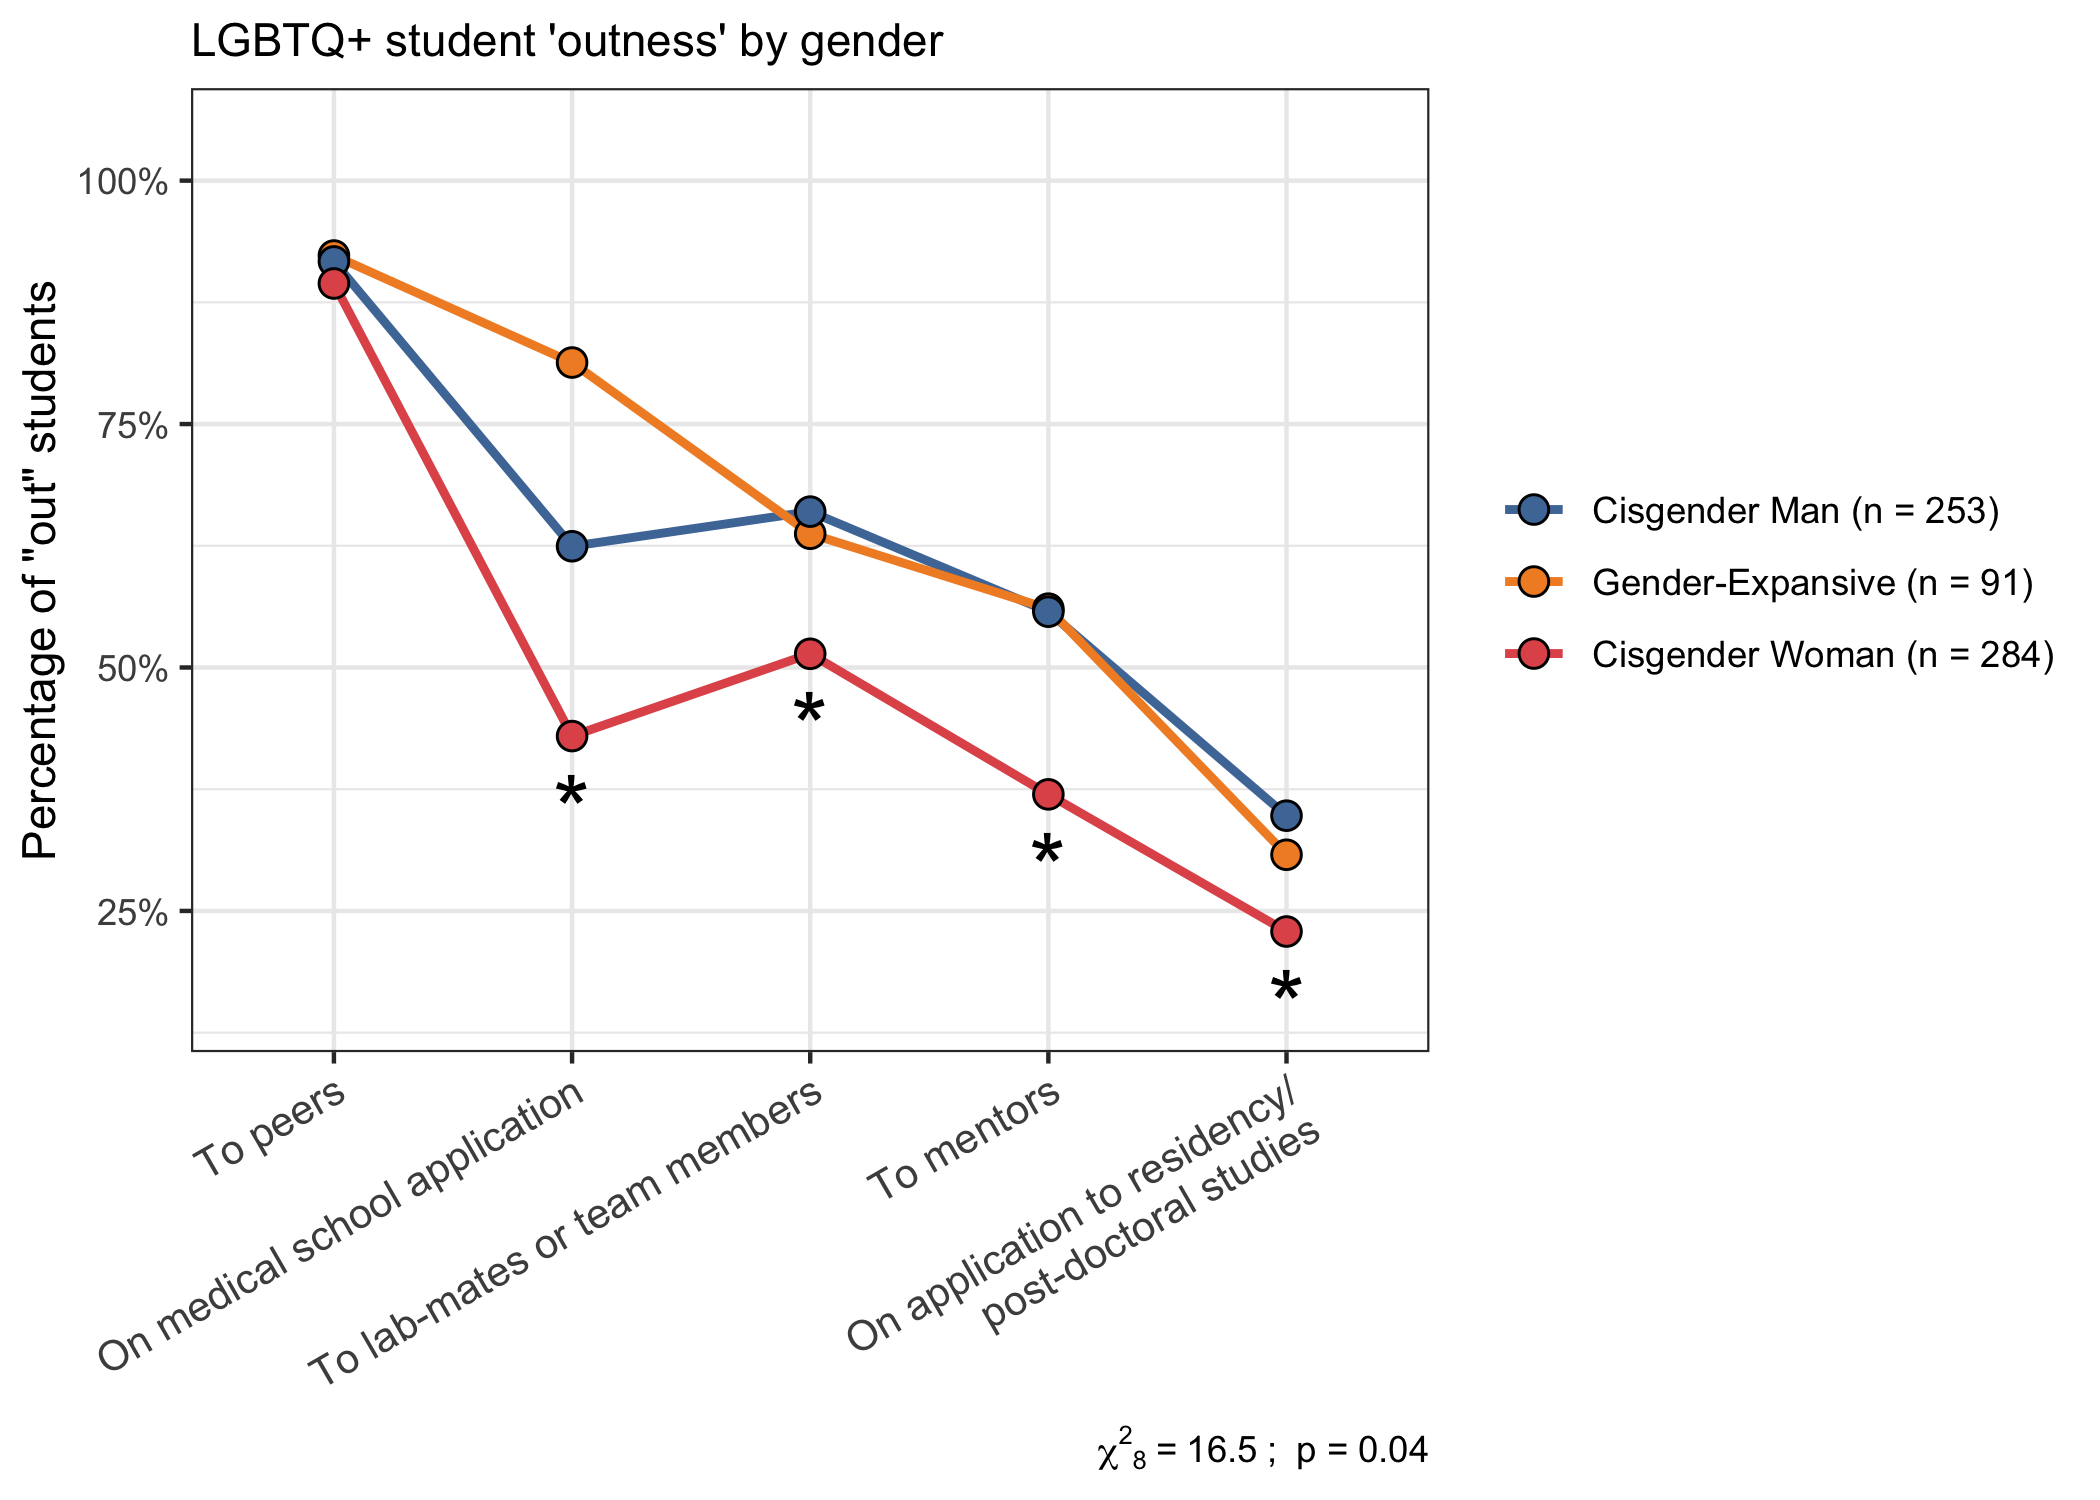
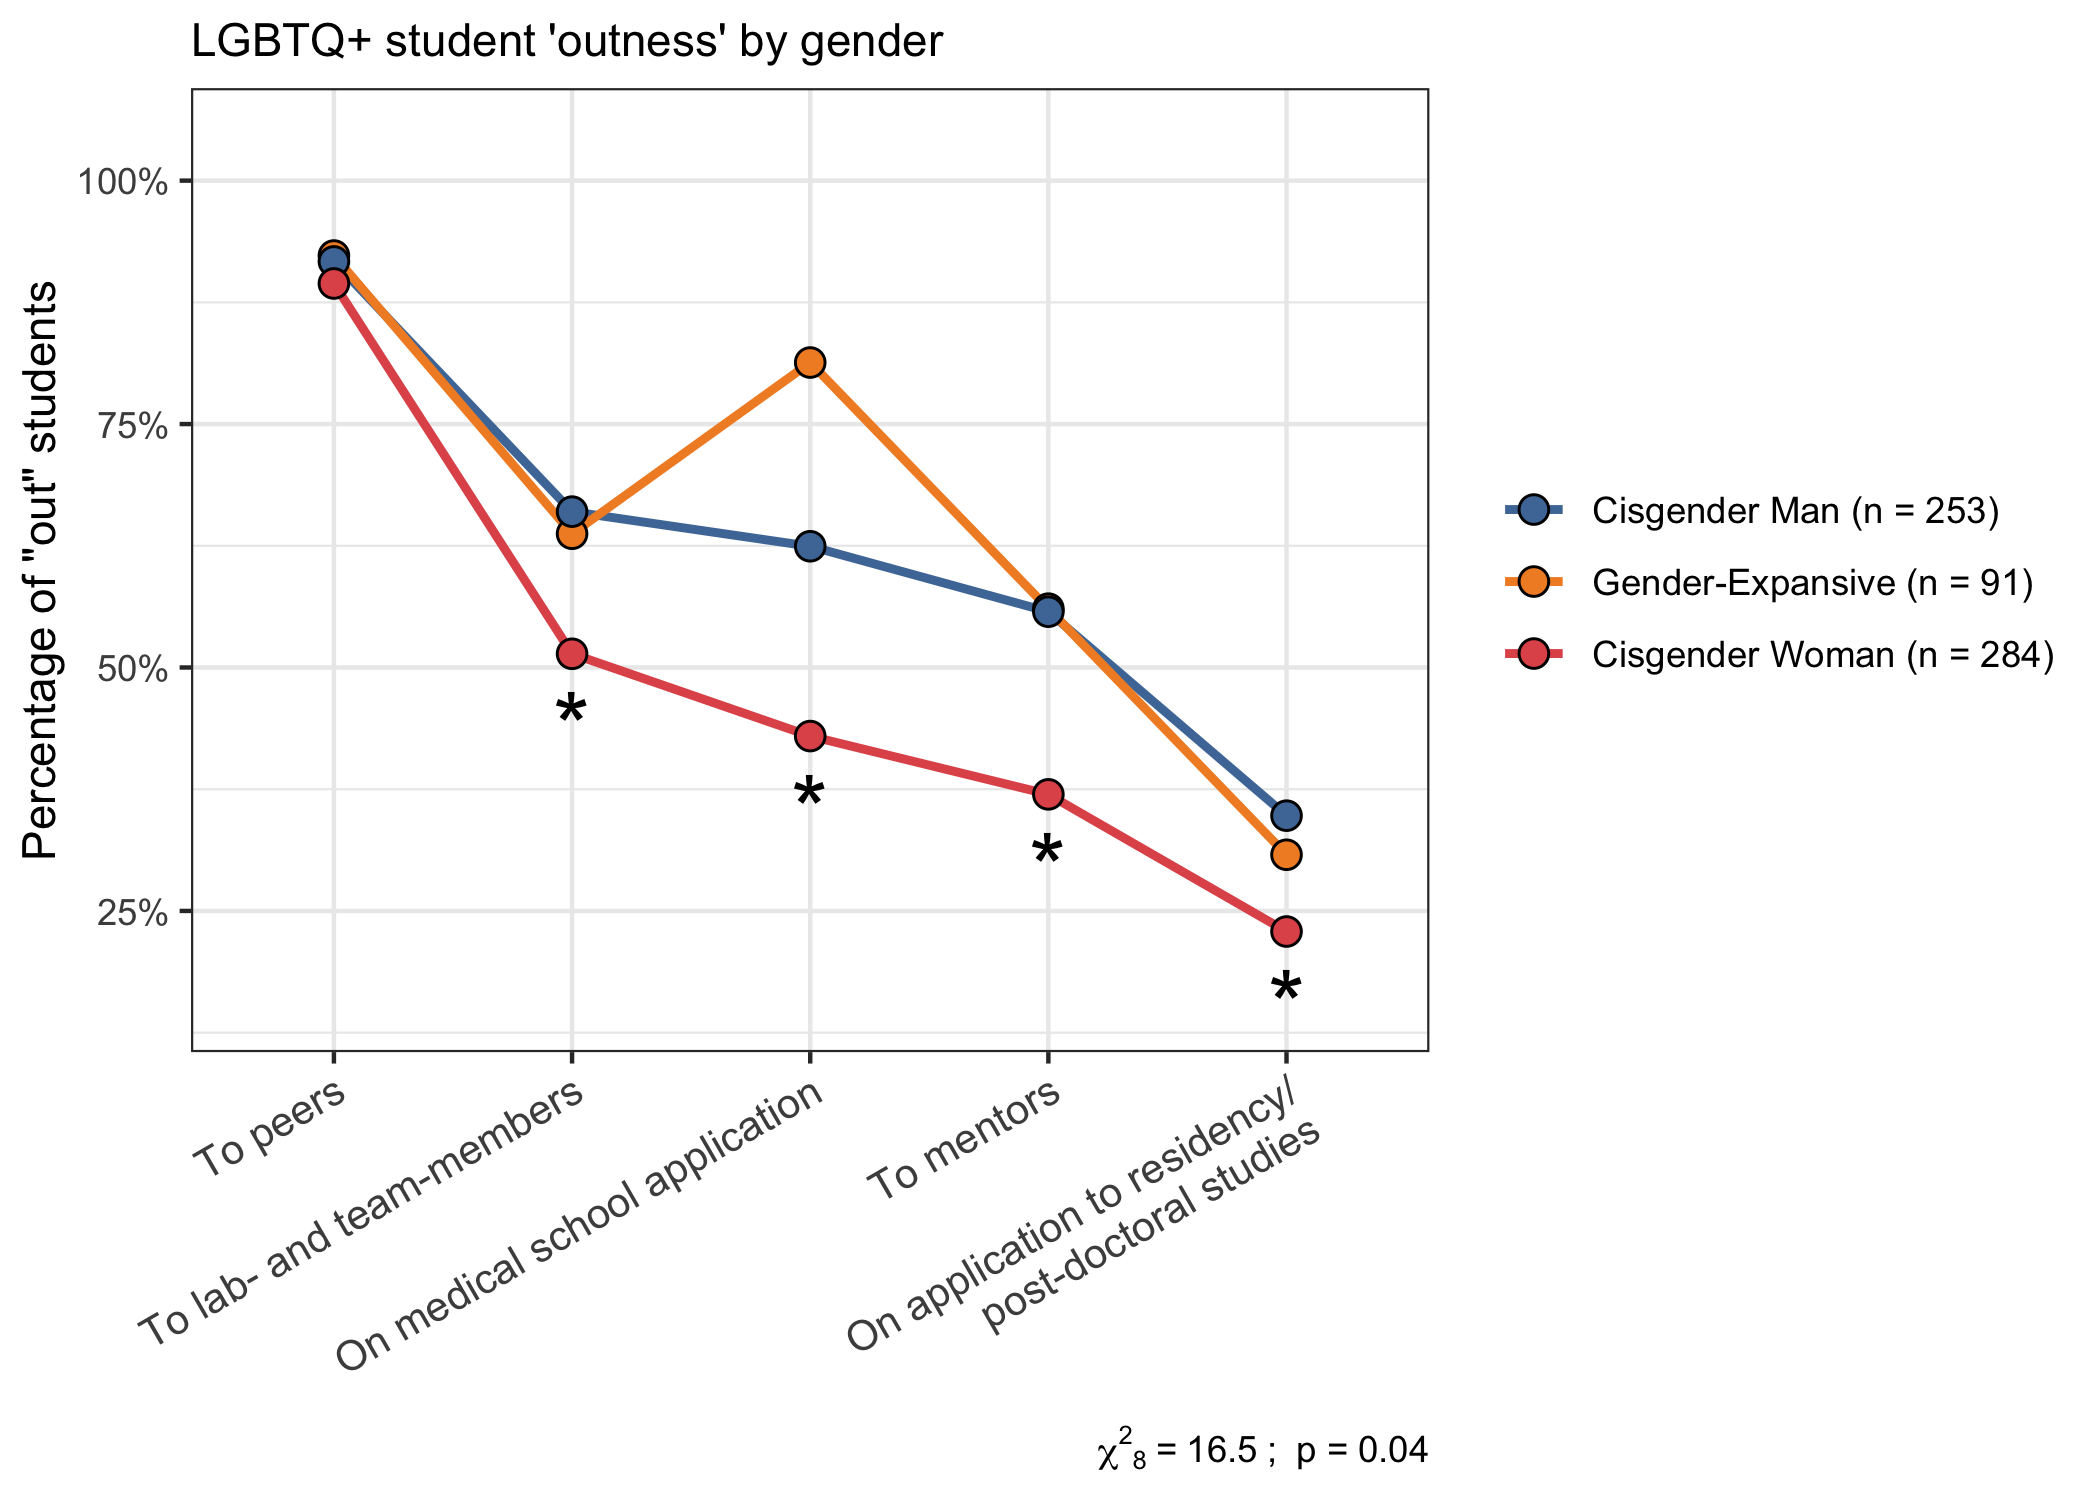
bug fixes

diff --git a/reports/outness_paper/outness_report.md b/reports/outness_paper/outness_report.md
@@ -104,7 +104,7 @@ recode_values <-
 context_recode <- 
   c(
     "classmates_peers" = "To peers", 
-    "labmates_coworkers_team" = "To lab-mates or team members", 
+    "labmates_coworkers_team" = "To lab- and team-members", 
     "mentors" = "To mentors", 
     "medical_school_app" = "On medical school application", 
     "residency_app" = "On application to residency/post-doctoral studies"
@@ -4912,7 +4912,7 @@ plot_outness <-
       mutate(
         environment = 
           recode(environment, !!! context_recode) %>% 
-          fct_reorder(percent_out, .fun = mean, .desc = TRUE), 
+          factor(levels = environment_levels), # just changed this
         identity = fct_reorder2(identity, environment, percent_out)
       )
     
@@ -5200,7 +5200,7 @@ label_frame
     ##   environment               identity   number_out     n percent_out significance
     ##   <fct>                     <fct>           <int> <int>       <dbl> <chr>       
     ## 1 To peers                  cisgender…        254   284        89.4 ""          
-    ## 2 To lab-mates or team mem… cisgender…        146   284        51.4 "*"         
+    ## 2 To lab- and team-members  cisgender…        146   284        51.4 "*"         
     ## 3 On medical school applic… cisgender…        122   284        43.0 "*"         
     ## 4 To mentors                cisgender…        105   284        37.0 "*"         
     ## 5 On application to reside… cisgender…         65   284        22.9 "*"
@@ -5354,17 +5354,17 @@ year_outness
     ##    med_school_year  environment  number_out     n percent_out identity number_in
     ##    <chr>            <chr>             <int> <int>       <dbl> <chr>        <int>
     ##  1 "Clinical Stude… To peers            184   201        91.5 "Clinic…        17
-    ##  2 "Clinical Stude… To lab-mate…        111   201        55.2 "Clinic…        90
+    ##  2 "Clinical Stude… To lab- and…        111   201        55.2 "Clinic…        90
     ##  3 "Clinical Stude… To mentors          106   201        52.7 "Clinic…        95
     ##  4 "Clinical Stude… On medical …         95   201        47.3 "Clinic…       106
     ##  5 "Clinical Stude… On applicat…         85   201        42.3 "Clinic…       116
     ##  6 "Pre-Clinical S… To peers            346   383        90.3 "Pre-Cl…        37
-    ##  7 "Pre-Clinical S… To lab-mate…        224   383        58.5 "Pre-Cl…       159
+    ##  7 "Pre-Clinical S… To lab- and…        224   383        58.5 "Pre-Cl…       159
     ##  8 "Pre-Clinical S… To mentors          160   383        41.8 "Pre-Cl…       223
     ##  9 "Pre-Clinical S… On medical …        232   383        60.6 "Pre-Cl…       151
     ## 10 "Pre-Clinical S… On applicat…         81   383        21.1 "Pre-Cl…       302
     ## 11 "Research "      To peers             27    30        90   "Resear…         3
-    ## 12 "Research "      To lab-mate…         25    30        83.3 "Resear…         5
+    ## 12 "Research "      To lab- and…         25    30        83.3 "Resear…         5
     ## 13 "Research "      To mentors           22    30        73.3 "Resear…         8
     ## 14 "Research "      On medical …         19    30        63.3 "Resear…        11
     ## 15 "Research "      On applicat…          8    30        26.7 "Resear…        22
@@ -5407,7 +5407,7 @@ year_significance_tests
     ##   environment                             chi_squared p_value    df significance
     ##   <chr>                                         <dbl>   <dbl> <dbl> <chr>       
     ## 1 To peers                                       0.25   1         2 ""          
-    ## 2 To lab-mates or team members                   8.51   0.071     2 ""          
+    ## 2 To lab- and team-members                       8.51   0.071     2 ""          
     ## 3 To mentors                                    15.2    0.002     2 "*"         
     ## 4 On medical school application                 10.1    0.032     2 "*"         
     ## 5 On application to residency/post-docto…       29.0    0         2 "*"
@@ -5685,7 +5685,7 @@ outness_vs_support_tests
     ##   environment                                       chi_squared p_value     df
     ##   <chr>                                                   <dbl> <chr>    <dbl>
     ## 1 To peers                                                 12.3 2.3e-03      1
-    ## 2 To lab-mates or team members                            213.  1.6e-47      1
+    ## 2 To lab- and team-members                                213.  1.6e-47      1
     ## 3 On medical school application                           242.  7.4e-54      1
     ## 4 To mentors                                              361.  6.8e-80      1
     ## 5 On application to residency/post-doctoral studies       534.  2.2e-117     1
